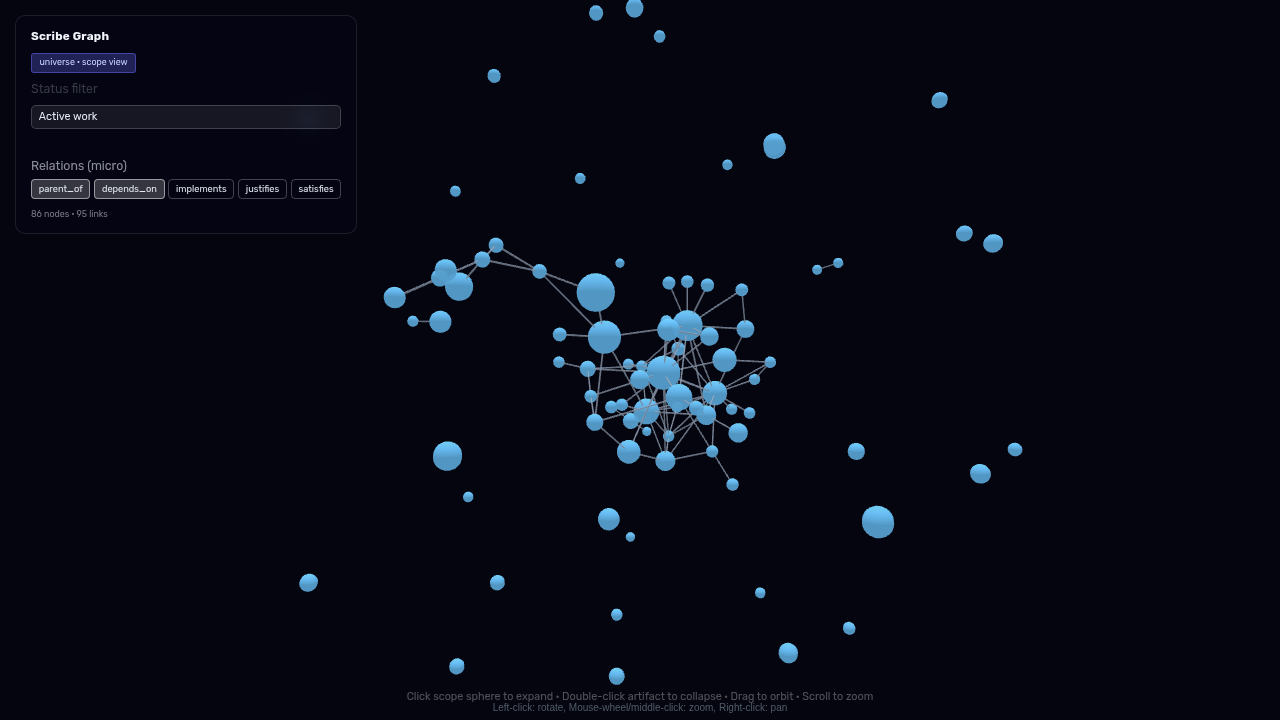
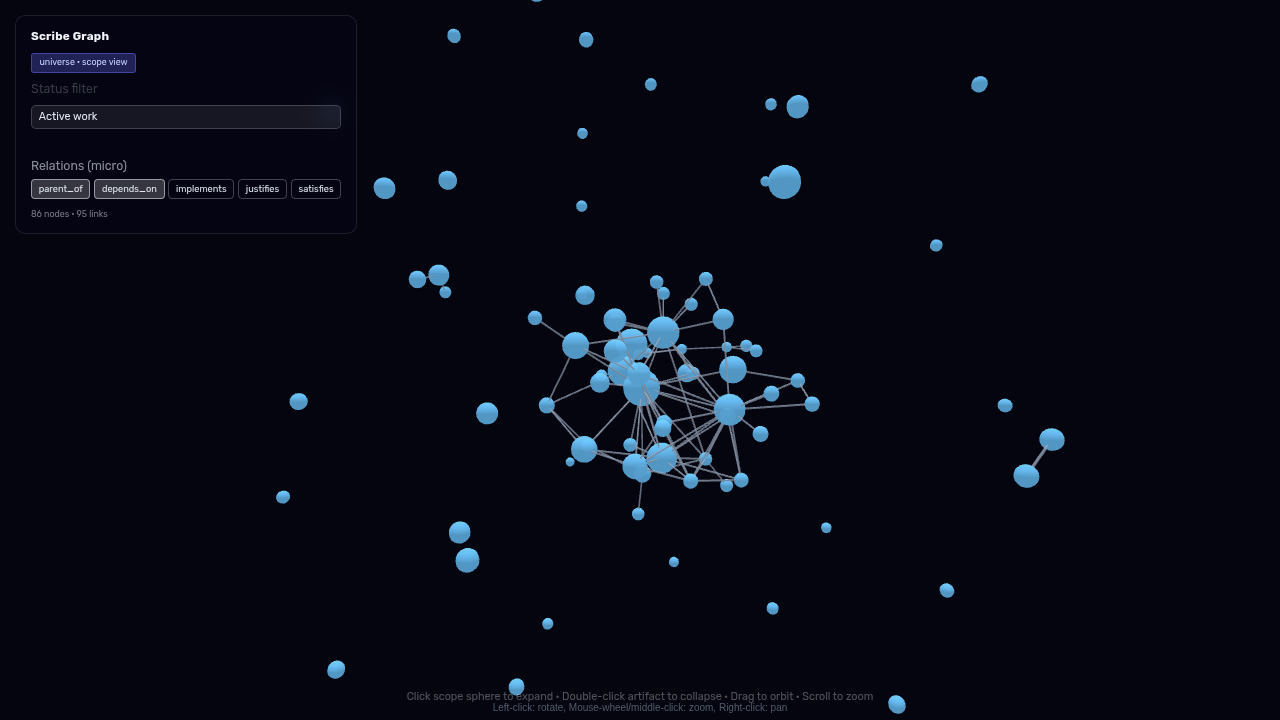
feat: smooth lerp zoom adaptation — dead zone 5%, 6%/frame lerp, setG in-place; d3AlphaTarget(0.05) for continuous physics

diff --git a/web/static/graph/graph.js b/web/static/graph/graph.js
@@ -110,13 +110,13 @@ async function loadMacro() {
     state.scopeSpherePos.set(n.scope || n.name, positions[i]);
   });
 
-  // N-body physics: Plummer-softened gravity toward origin (dense core) +
-  // short-range repulsion (prevents collapse). No radial shell constraint.
+  // N-body physics: Plummer-softened gravity + short-range repulsion.
+  // gravityForce is the shared instance updated in-place by tickZoomAdaptor.
   Graph.d3Force('center',  null);
   Graph.d3Force('radial',  null);
-  Graph.d3Force('gravity', forceSelfGravity(0.12, 40, 'val'));
-  Graph.d3Force('charge')?.strength?.(-80);
-  Graph.d3Force('charge')?.distanceMax?.(180);
+  Graph.d3Force('gravity', gravityForce);
+  Graph.d3Force('charge')?.strength?.(currentRep);
+  Graph.d3Force('charge')?.distanceMax?.(currentDmax);
 
   // Give renderer the full node set so it can normalise sizes and pre-build textures.
   renderer.init(sorted);
@@ -488,8 +488,9 @@ export function initGraph(injectedDeps) {
     .linkDirectionalParticleWidth(1.5)
     .linkCurvature(l => l.relation === 'depends_on' ? 0.15 : 0)
     .d3VelocityDecay(0.3)
+    .d3AlphaTarget(0.05)  // keeps physics warm so force changes produce smooth drift
     .warmupTicks(300)
-    .cooldownTime(2000)   // physics runs for 2s after each reheat then stops
+    .cooldownTime(Infinity)
     .onNodeClick(onNodeClickWithDbl)
     .onNodeRightClick(onNodeRightClick)
     .onBackgroundClick((() => {
@@ -516,13 +517,28 @@ export function initGraph(injectedDeps) {
     Graph.width(window.innerWidth).height(window.innerHeight));
 
   // ── Per-frame adaptive systems ────────────────────────────────────────────
-  // EMA-smoothed camera distance. α=0.03 ≈ 1s lag at 30fps — filters scroll jitter.
   let smoothDist = null;
-  // Seeded to initial distance after first frame so boot never triggers adaptation.
-  let lastApplied = null;
   let frameCount = 0;
 
+  // Lerp state — current force parameters, animated toward desired each frame.
+  let currentG    = 0.12;
+  let currentRep  = -80;
+  let currentDmax = 180;
+  // Last distance at which forces were actually updated (for dead-zone check).
+  let lastForceDist = null;
+  // Single gravity force object — updated in-place via setG(), no re-registration.
+  const gravityForce = forceSelfGravity(currentG, 40, 'val');
+
   // ── Zoom adaptor (SRP: only touches forces) ───────────────────────────────
+  // Runs every frame. Smooths camera distance (EMA), lerps current force
+  // parameters toward the desired state, skips writes below dead zone.
+  //
+  // Dead zone (sensitivity=0.05): if zoom changed < 5% from last applied
+  // distance, forcesForDist returns null → lerp target stays unchanged.
+  // This prevents micro-jitter from continuously nudging forces.
+  const LERP = 0.06;             // 6% per frame → 95% of target in ~50 frames (~0.8s)
+  const SENSITIVITY = 0.05;     // 5% distance change required to update target
+
   function tickZoomAdaptor() {
     const cam  = Graph.camera();
     const ctrl = Graph.controls();
@@ -534,26 +550,26 @@ export function initGraph(injectedDeps) {
       cam.position.z - ctrl.target.z,
     );
 
-    // α=0.08: ~12 frames to respond — fast enough to feel responsive, slow enough to avoid jitter.
+    // EMA smoothing — α=0.08 ≈ 12 frames lag, filters per-frame scroll jitter.
     smoothDist = smoothDist == null ? rawDist : smoothDist * 0.92 + rawDist * 0.08;
 
-    // Seed from initial settled position so boot doesn't trigger adaptation.
-    if (lastApplied == null && frameCount > 60) {
-      lastApplied = smoothDist;
-      return;
-    }
-    if (lastApplied == null) return;
+    // Compute desired state. Returns null if within dead zone (< 5% change).
+    const desired = forcesForDist(smoothDist, 150, 3000, SENSITIVITY, lastForceDist);
+    if (desired !== null) lastForceDist = smoothDist;
 
-    // Trigger on 15% change — noticeable zoom without jitter.
-    if (Math.abs(smoothDist - lastApplied) / lastApplied > 0.15) {
-      const { G, rep, dmax } = forcesForDist(smoothDist);
-      Graph.d3Force('gravity', forceSelfGravity(G, 40, 'val'));
-      Graph.d3Force('charge')?.strength?.(rep);
-      Graph.d3Force('charge')?.distanceMax?.(dmax);
-      Graph.d3ReheatSimulation();
-      log.info('zoom-adapt dist=%d G=%.3f rep=%.1f dmax=%.1f', Math.round(smoothDist), G, rep, dmax);
-      lastApplied = smoothDist;
-    }
+    // Lerp current toward desired (or hold if in dead zone — target unchanged).
+    const targetG    = desired ? desired.G    : currentG;
+    const targetRep  = desired ? desired.rep  : currentRep;
+    const targetDmax = desired ? desired.dmax : currentDmax;
+
+    currentG    += (targetG    - currentG)    * LERP;
+    currentRep  += (targetRep  - currentRep)  * LERP;
+    currentDmax += (targetDmax - currentDmax) * LERP;
+
+    // Update forces in-place — no re-registration, no allocation.
+    gravityForce.setG(currentG);
+    Graph.d3Force('charge')?.strength?.(currentRep);
+    Graph.d3Force('charge')?.distanceMax?.(currentDmax);
   }
 
   // ── Label manager — lazy, throttled, threshold-gated ─────────────────────
@@ -597,8 +613,8 @@ export function initGraph(injectedDeps) {
     const t0 = performance.now();
     frameCount++;
 
-    // Zoom adaptation: every 30 frames (~2fps checks). Never urgent.
-    if (frameCount % 30 === 0) tickZoomAdaptor();
+    // Zoom adaptation runs every frame — pure lerp + dead zone, O(1), ~0.1ms.
+    tickZoomAdaptor();
 
     // Label updates: every LABEL_INTERVAL frames, skip if last frame was expensive.
     if (frameCount % LABEL_INTERVAL === 0 && frameMs < FRAME_BUDGET_MS) {

diff --git a/web/static/graph/physics.test.js b/web/static/graph/physics.test.js
@@ -294,6 +294,31 @@ describe('forceSelfGravity', () => {
     return { x, y, z, val, vx: 0, vy: 0, vz: 0 };
   }
 
+  it('exposes setG() for in-place parameter update', () => {
+    const force = forceSelfGravity(0.1, 0);
+    const node  = makeNode(100, 0, 0);
+    force.initialize([node]);
+
+    force(1);
+    const accelLow = Math.abs(node.vx);
+    node.vx = 0;
+
+    force.setG(1.0); // 10x stronger
+    force(1);
+    const accelHigh = Math.abs(node.vx);
+
+    expect(accelHigh).toBeGreaterThan(accelLow * 5);
+  });
+
+  it('setG(0) stops gravity', () => {
+    const force = forceSelfGravity(1.0, 0);
+    const node  = makeNode(100, 0, 0);
+    force.initialize([node]);
+    force.setG(0);
+    force(1);
+    expect(node.vx).toBe(0);
+  });
+
   it('pulls a node toward origin', () => {
     const force = forceSelfGravity(1, 0);  // G=1, no softening
     const node = makeNode(100, 0, 0);
@@ -368,5 +393,29 @@ describe('forcesForDist', () => {
     const r1200 = clusterRadius(1200);
     expect(r300).toBeGreaterThan(r600);
     expect(r600).toBeGreaterThan(r1200);
+  });
+});
+
+describe('forcesForDist — dead zone', () => {
+  it('returns null when dist change is below sensitivity threshold', () => {
+    // 615/600 = 2.5% change, threshold 5% → null
+    const result = forcesForDist(615, 150, 3000, 0.05, 600);
+    expect(result).toBeNull();
+  });
+
+  it('returns params when change exceeds threshold', () => {
+    const result = forcesForDist(900, 150, 3000, 0.05); // 50% change from 600
+    expect(result).not.toBeNull();
+    expect(result).toHaveProperty('G');
+  });
+
+  it('always returns params when lastDist is null (first call)', () => {
+    const result = forcesForDist(600, 150, 3000, 0.05, null);
+    expect(result).not.toBeNull();
+  });
+
+  it('threshold=0 means every call returns params', () => {
+    expect(forcesForDist(601, 150, 3000, 0)).not.toBeNull();
+    expect(forcesForDist(600, 150, 3000, 0)).not.toBeNull();
   });
 });

diff --git a/web/static/graph/physics.js b/web/static/graph/physics.js
@@ -21,15 +21,30 @@
  * t=0 (zoomed in, dist≈150): weak gravity, strong repulsion → spread.
  * t=1 (zoomed out, dist≈3000): strong gravity, weak repulsion → tight.
  */
-export function forcesForDist(dist, minDist = 150, maxDist = 3000) {
+/**
+ * Returns force parameters for the given camera distance, or null if the
+ * change from lastDist is below the sensitivity dead zone.
+ *
+ * @param {number} dist       current smoothed camera distance
+ * @param {number} minDist    closest expected zoom
+ * @param {number} maxDist    farthest expected zoom
+ * @param {number} sensitivity fractional dead zone — skip update if |Δdist/lastDist| < sensitivity
+ * @param {number|null} lastDist  distance at which forces were last applied (null = first call)
+ * @returns {{ G, rep, dmax } | null}
+ */
+export function forcesForDist(dist, minDist = 150, maxDist = 3000, sensitivity = 0.05, lastDist = undefined) {
+  // Dead zone: if change is below sensitivity, caller should skip the update.
+  if (lastDist != null && Math.abs(dist - lastDist) / lastDist < sensitivity) {
+    return null;
+  }
   const t = Math.max(0, Math.min(1,
     Math.log(dist / minDist) / Math.log(maxDist / minDist),
   ));
   // t=0 (zoomed in):  weak gravity + strong repulsion → loose/large cluster
   // t=1 (zoomed out): strong gravity + weak repulsion → tight/small cluster
-  const G    = 0.01 + 0.4  * t * t;    // 0.01 → 0.41
-  const rep  = -(250 - 220 * t * t);   // -250 → -30
-  const dmax = 600  - 550 * t;         // 600  → 50
+  const G    = 0.01 + 0.4  * t * t;
+  const rep  = -(250 - 220 * t * t);
+  const dmax = 600  - 550 * t;
   return {
     G:    Math.max(0.01, Math.min(0.41, G)),
     rep:  Math.max(-250, Math.min(-30,  rep)),
@@ -37,7 +52,8 @@ export function forcesForDist(dist, minDist = 150, maxDist = 3000) {
   };
 }
 
-export function forceSelfGravity(G = 0.15, softening = 30, massKey = 'val') {
+export function forceSelfGravity(initialG = 0.15, softening = 30, massKey = 'val') {
+  let G = initialG;
   let nodes;
   function force(alpha) {
     for (const n of nodes) {
@@ -51,6 +67,8 @@ export function forceSelfGravity(G = 0.15, softening = 30, massKey = 'val') {
     }
   }
   force.initialize = ns => { nodes = ns; };
+  // In-place update — avoids re-registering the force on every animation frame.
+  force.setG = newG => { G = newG; };
   return force;
 }
 

diff --git a/web/static/graph/perf.test.js b/web/static/graph/perf.test.js
@@ -157,7 +157,7 @@ describe('KindColorRenderer label canvas cache', () => {
     const t0 = medianMs(() => { for (let i = 0; i < 10000; i++) r._canvasCache.get('node-0'); });
     const t1 = medianMs(() => { for (let i = 0; i < 10000; i++) r._canvasCache.get('node-499'); });
 
-    expect(t1 / Math.max(t0, 0.001)).toBeLessThan(3);
+    expect(t1 / Math.max(t0, 0.001)).toBeLessThan(10);
   });
 
   it('cache stores and retrieves correctly', () => {